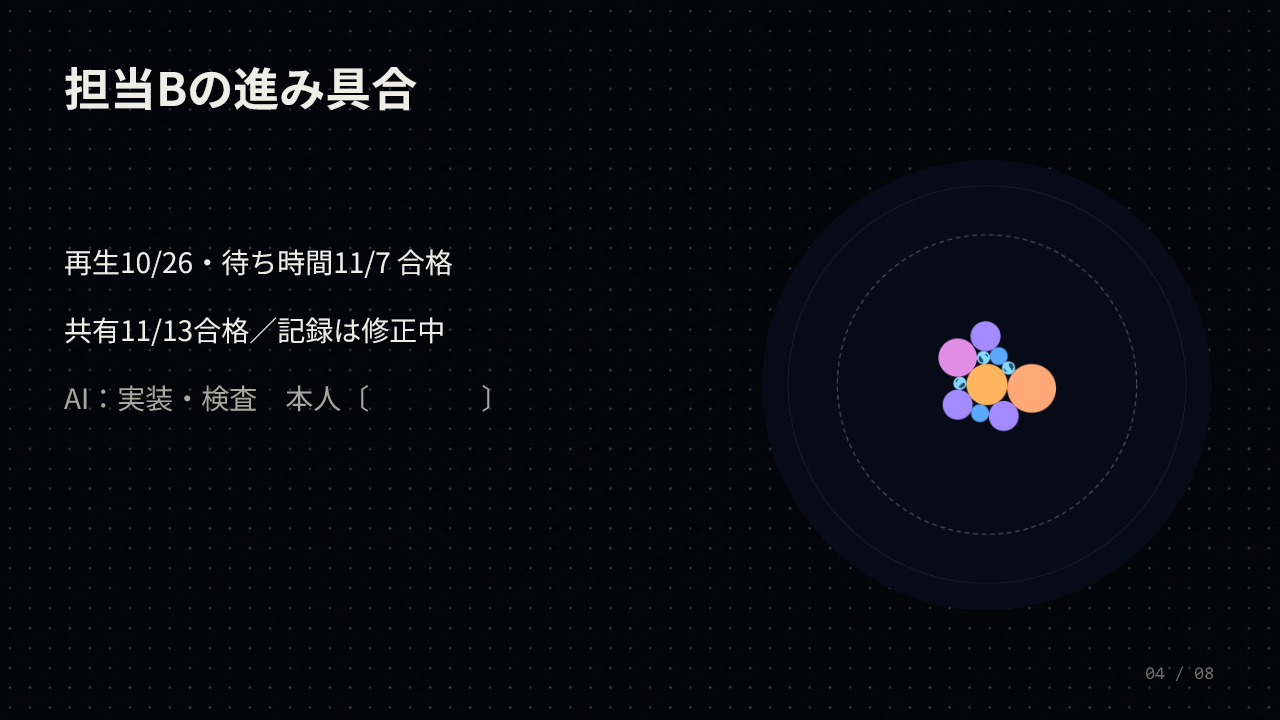
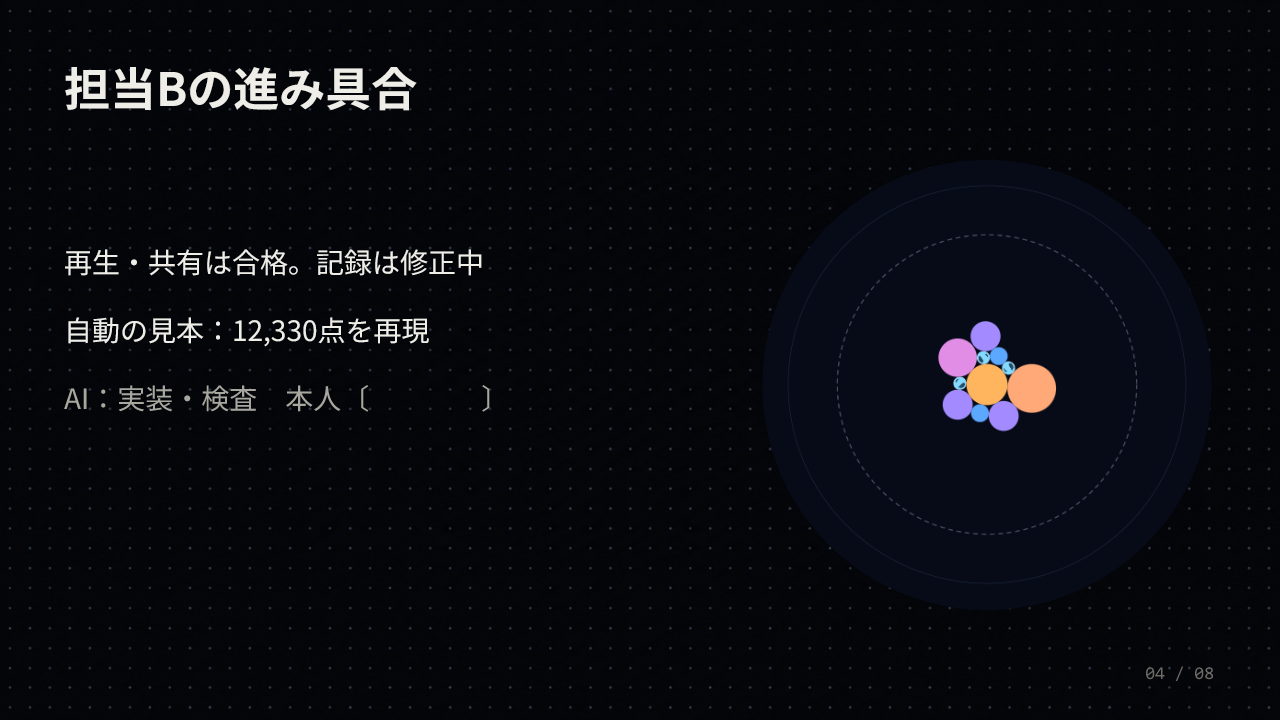
docs(B): 中間発表のPowerPoint初版を提出

Changed region(s): [[0.0312, 0.4278, 0.3438, 0.4889], [0.0938, 0.3361, 0.375, 0.3972]]

diff --git a/docs/progress/B.md b/docs/progress/B.md
@@ -3,10 +3,10 @@
 書き方は AGENTS.md の 3 章。毎回「いま」「つぎ」「題目の状態」「リーダーへの依頼」を書き直し、「記録」の一番上に 1 件足す。
 
 ## いま
-方針の版11。骨組み8枚はリーダーの返事で内容が合格し、指示どおり編集可能な16:9のPowerPointと全8枚のPNGを作った。初版の最終見直し中。本人欄とC・Dの原稿・素材は指定どおり空欄・受領待ち。記録2周目の新規移行の不明値修正は保存済みで、既に0化された版1とID統合は残る。自動作業はReady・PT3H。現在の発表作業と重ならないよう、初回だけ11/18 21:23:23日本時間へ移した。通常の予約作業が完了した確認ではない。
+方針の版11。骨組み8枚の内容合格を受け、編集可能な16:9のPowerPoint初版と全8枚のPNGを提出した。本文・数字・本人欄は編集可能。本人欄とC/Dの素材は指定どおり空欄・受領待ち。記録2周目の新規移行の不明値修正は保存済みで、既に0化された版1とID統合は残る。自動作業はReady・PT3H。初回は発表作業と重ならない11/18 21:23:23日本時間。通常の予約作業が完了した確認ではない。
 
 ## つぎ
-PowerPointの初版を見直して提出。本人の1文とC/Dの原稿・素材を受け取ったら差し替える。発表準備を先にし、その後に記録10の残りと11へ戻る。共有18〜20はその後。Cの形式8・collapseTickがmainへ入った時は保存の往復を確認する。
+持ち主の仕上げを受け、本人の1文とC/Dの原稿・素材を受け取ったら差し替える。発表準備を先にし、その後に記録10の残りと11へ戻る。共有18〜20はその後。Cの形式8・collapseTickがmainへ入った時は保存の往復を確認する。
 
 ## 題目の状態
 | 題目 | 周回 | 状態 |
@@ -18,10 +18,10 @@ PowerPointの初版を見直して提出。本人の1文とC/Dの原稿・素材
 | 5 日替わり | 未着手 | 突き返し |
 | 6 共有 | 3周 | 合格 |
 | 中間発表の骨組み | 8枚・本人分30秒 | 合格 |
-| 中間発表のPowerPoint | 初版の見直し中 | 作業中 |
+| 中間発表のPowerPoint | 初版（8枚・全ページPNG） | 提出 |
 
 ## リーダーへの依頼
-- PowerPoint初版: `docs/notes/B/slides/GRAVITY_CORE_中間発表.pptx`、各ページは `docs/notes/B/slides/png/01.png`〜`08.png`。8枚・16:9・文字は編集可能。最終の内容確認を進めている。
+- PowerPoint初版を置いた: `docs/notes/B/slides/GRAVITY_CORE_中間発表.pptx`、各ページは `docs/notes/B/slides/png/01.png`〜`08.png`。8枚・16:9・文字は編集可能。持ち主の仕上げをお願いします。4・7枚目のメモ欄にも動く見本URLを入れた。
 - 動く見本（記録）: https://haigooooo.github.io/gravity-core/team-b/dev/records.html?sample=30&compare=legacy （11/18、公開後にこのPCのEdgeでHTTP 200、不明／26から平均26・使用1/2件を確認）。
 - 骨組みの内容合格と、手順書・週割りの照合の返事を受領。本人欄・C/D原稿と素材は未受領なので、枠と空欄は指示どおり残す。最終の見た目と本人の経験は持ち主が仕上げる。
 - mainの結果コピーに `encodeReplayShare` と受け取りURLが接続されていることを確認した。結果画像の本体接続までは今回確認していない。
@@ -31,10 +31,12 @@ PowerPointの初版を見直して提出。本人の1文とC/Dの原稿・素材
 - 結果画像のTEXTをDのstringsへ移すこと、本体の再生保存を最新100件とすることは、これまでの合意どおり。調整の道具の17はリーダーの担当。
 
 ## 記録
-### 2026-11-18 中間発表のPowerPoint初版（見直し中）
+### 2026-11-18 中間発表のPowerPoint初版を提出
 - 区切りの再取得でmain `60f4a5e` の返事を受領し、発表を先に再開した。骨組み8枚の内容は合格。手順書の時間制限・軌道は誤りとして訂正され、第3週と第6週もリーダーが照合済み。持ち主の「全部AIに任せ、最後に持ち主が仕上げる」に従って、編集可能なPowerPointを作る。
 - 8枚・16:9、見出し・本文・大きい数字・本人欄・受領待ちの枠をネイティブの文字と図形で作った。ゲームの図は実際の盤面層を取得。背景は黒地の丸い点の格子を画像生成した物で、文字は焼き込んでいない。4・7枚目のメモ欄には原稿・根拠・動く見本URLを入れた。
-- 出力の検査は8枚・画面比・文字の位置・書体・関係ファイルの整合・再読込を確認して指摘0。PPTXを再読込した物から8枚のPNGを出した。現在、実際の各画像と別の審査役の内容確認を進めている。PowerPointアプリを開いた確認とは言わない。
+- 出力の検査は8枚・画面比・文字の位置・書体・関係ファイルの整合・再読込を確認して指摘0。PPTXを読み戻した物から8枚のPNGを出し、全ページを原寸で確認した。最終PPTXは1,289,308バイト。本人用の説明を含むslidesフォルダ全体は約8.5MB。PowerPointアプリを開いた確認とは言わない。
+- 内容の審査役は、8枚・16:9・本文のネイティブ文字・4/7メモのURLを内部XMLと画像から確認し、★は無し。共有の盤面だけでは自動見本と得点が分からないという指摘を受け、4枚目の本文に「自動の見本：12,330点を再現」を編集可能な文字で入れた。合格日はメモへ移し、本文3行を維持。最終の見た目の良し悪しは持ち主が決める。
+- source取得を担当したshirabeは手本3URLの画面と書体の実在を確認。C/Dの担当枝も取得して発表用の原稿・素材がまだ無いことを確認し、受領待ち枠を維持した。最終の画像と数値は自分でも照合した。
 - 本体の原稿と素材の未受領、本人の経験、音読時間は引き続き未確認。C/Dの枠と本人欄はリーダーが明示した初版の指定。初版締め切りは11/19 15:00、C/Dの提出が来た後に差し替える。
 - 18:23の予約と重ならないよう、初回を21:23:23へ変更し、PT3Hを再確認した。停止や利用枠の承認を取り消したわけではない。
 

diff --git a/docs/notes/B/slides/README.md b/docs/notes/B/slides/README.md
@@ -1,0 +1,22 @@
+# 中間発表のPowerPoint初版
+
+- [編集するPowerPoint](GRAVITY_CORE_中間発表.pptx)：8枚、16:9。見出し・本文・数字・空欄は文字として編集できる。
+- [各ページの画像](png/)：`01.png`〜`08.png`。PowerPointを読み戻した物から出力した。
+- 話す原稿・根拠は各ページのメモ欄。4枚目にBの共有見本、7枚目に公開本体のURLがある。7枚目の「公開本体を開く」もリンク。
+
+## 持ち主が仕上げる所
+
+1. 3〜6枚目の本人欄に、各本人が実際に決めた事と確かめた事を1文ずつ入れる。AIが行った実装と自動検査は、人の経験として書かない。
+2. 5枚目のCの動画、6枚目のDの採用した盤面を、受領した物へ差し替える。現時点では各担当の枝にも `slides/my_part.md` と発表用の素材は無く、指定の受領待ち枠にしている。
+3. 原稿を声に出して測る。計画は企画30秒、分担30秒、4人各30秒、デモ60秒、今後30秒、余裕30秒。人の音読・会場の投影・PowerPointアプリでの操作は未確認。
+
+初版締め切りは11/19 15:00。C/Dが21:00までに出した分は、その後に差し替える。
+
+## 内容の区別
+
+- 1・7枚目は今の本体の盤面。新しい点の格子のゲームが実装済みという意味ではない。4枚目は自動の共有見本を再現した盤面で、本人の得点ではない。
+- 3枚目の681件は本体mainの自動試験。担当Bの追加分を含む697件とは分けている。
+- ルールは積み上げ・核熱量100で終了。時間制限と軌道は、リーダーが訂正した手順書に合わせて説明から外した。
+- 見た目の最後の仕上げは持ち主。AIの形式検査や内容の見直しを、人の見た目の合格とは扱わない。
+
+素材の出どころは [CREDITS.md](CREDITS.md)。骨組みの内容合格は `docs/review/B.md` の11/18の返事。

diff --git a/docs/notes/B/slides/outline.md b/docs/notes/B/slides/outline.md
@@ -71,8 +71,8 @@
 
 **載せる事（3行）**
 
-1. プレイの再生：10/26合格、結果の待ち時間：11/7合格
-2. リンク・画像による共有：11/13合格 ／ 記録は修正中
+1. 再生・共有は合格。記録は修正中
+2. 自動の見本：12,330点を再現（合格日はメモ欄へ）
 3. AIが実装・検査を担当。本人の判断・確認：〔B本人が記入〕
 
 **話す事**
